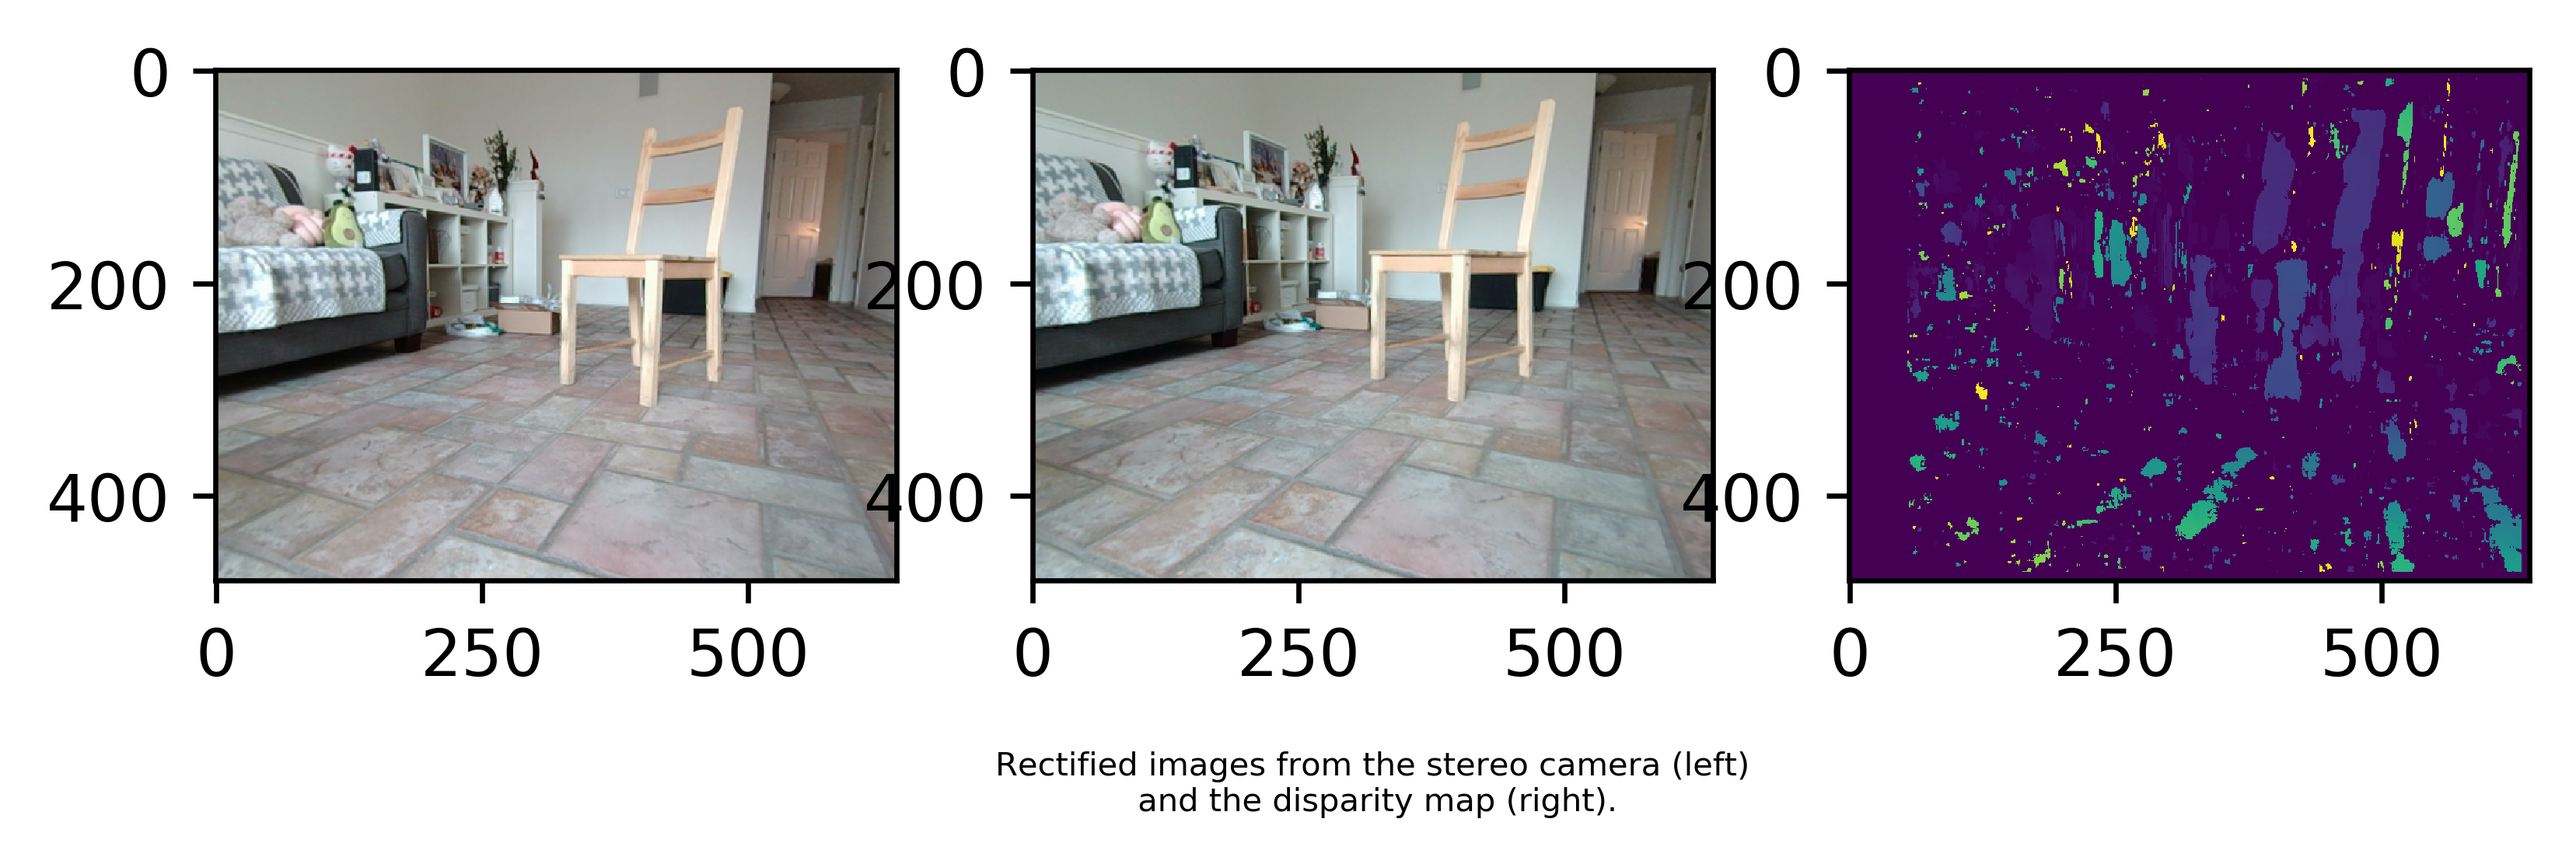
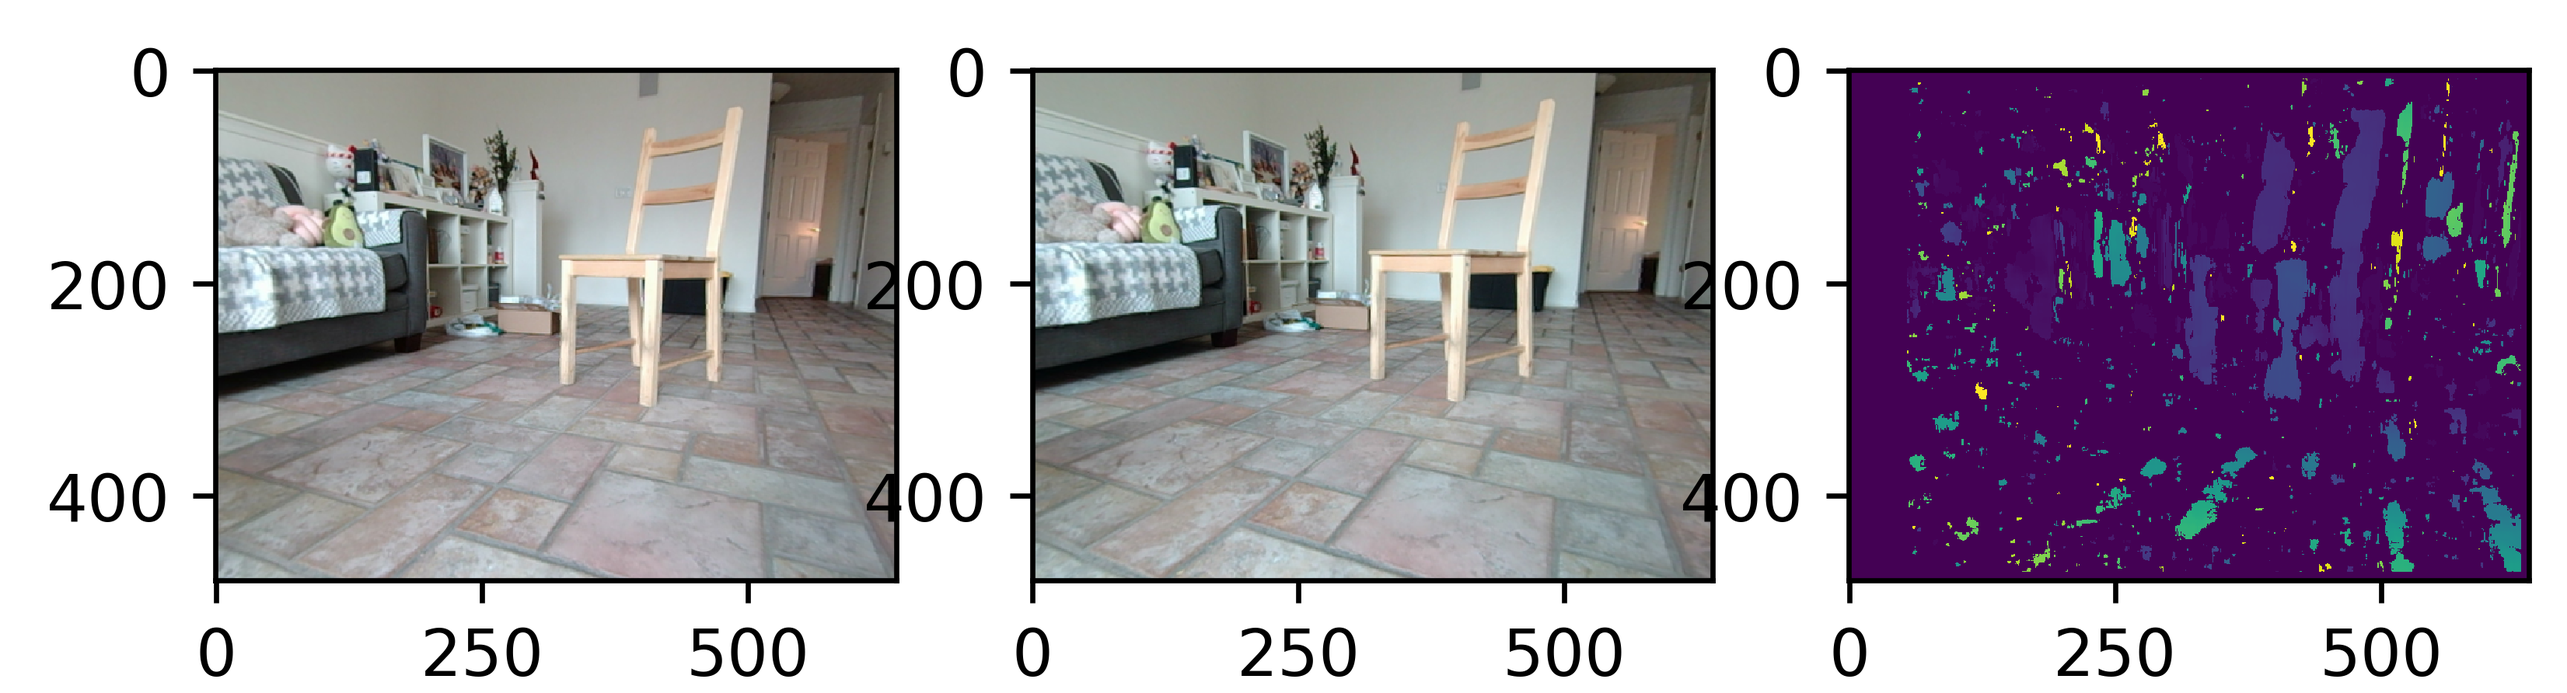
commit

diff --git a/README.md b/README.md
@@ -65,6 +65,7 @@ To calculate the depth of every pixel, dense depth triangulation is performed us
 in which the depth of a point in a scene is inversely proportional to the difference in distance of corresponding image points and their camera centers in the two views.
 <p align="center">
   <img src="output/task_4/disparity_img1.png">
+  <p align="center">Rectified images from the stereo camera (left and middle), and the disparity map (right).</p>
 </p>
 
 ## 2. Camera motion and structure
@@ -76,6 +77,7 @@ Task 5 is reconstructing the 2D world plane from an image by finding homography 
 for that image using the camera intrinsics found in 'task_1.py'. The 2D world plane images can be found in the 'output' folder for 'task_5'. 
 <p align="center">
   <img src="output/task_5/twoD_recontruct.png">
+  <p align="center">2D world reconstruction from the 'left_0.png' and 'right_0.png' images</p>
 </p>
 
 ### Task 6- Camera pose estimation from a single view
